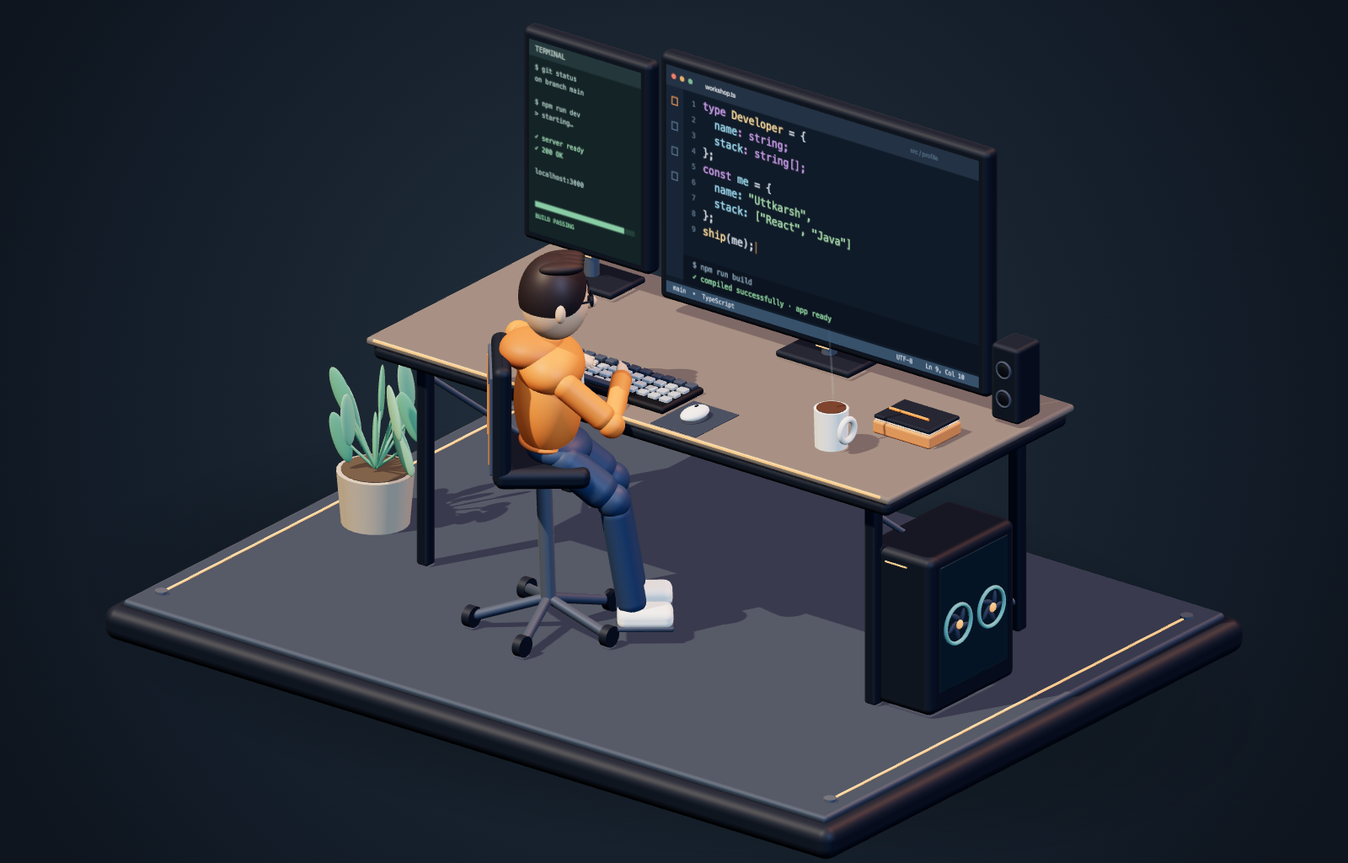
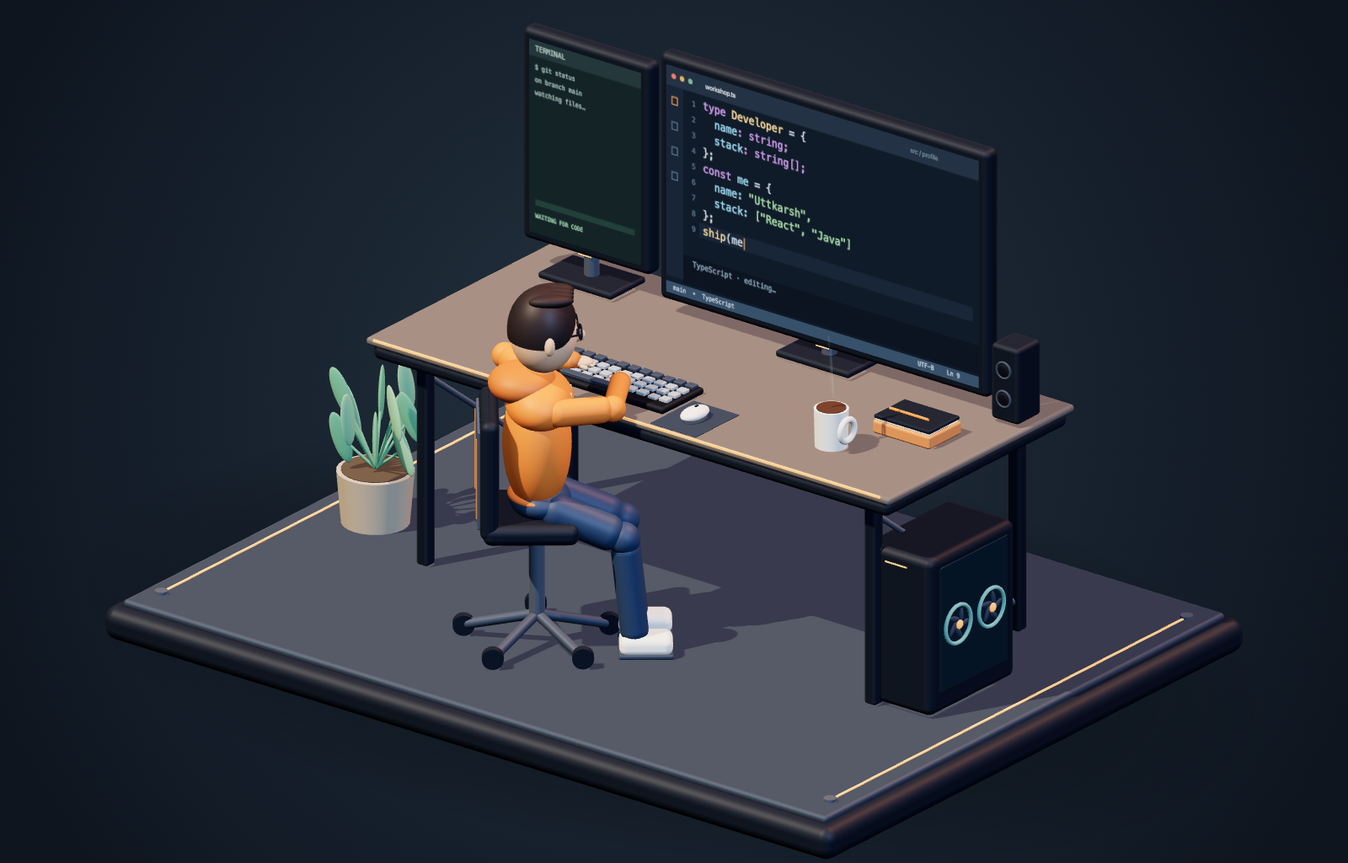
Animate a smooth walk-in coding story with live monitor activity

diff --git a/scripts/coder_workshop.html b/scripts/coder_workshop.html
@@ -8,11 +8,11 @@ body{margin:0;background:#101720;color:#e4e9ef;font:15px system-ui}main{max-widt
 </style>
 <script type="importmap">{"imports":{"three":"/vendor/build/three.module.js"}}</script>
 </head>
-<body><main><p>Authoring preview · the exported animation contains only the workstation</p><div id="scene"></div><nav><button id="preview">Save still preview</button><button id="render">Render animation</button><span id="status">Preparing scene…</span></nav></main>
+<body><main><p>Authoring preview · the exported animation contains only the workstation</p><div id="scene"></div><nav><label>Scene time <input id="time" type="range" min="0" max="15.98" step="0.02" value="7" /></label><button id="play">Pause preview</button><button id="preview">Save still preview</button><button id="render">Render animation</button><span id="status">Preparing scene…</span></nav></main>
 <script type="module">
 import * as THREE from 'three';
 import { RoundedBoxGeometry } from '/vendor/examples/jsm/geometries/RoundedBoxGeometry.js';
-const W=1600,H=1024,N=200,LOOP=8, status=document.querySelector('#status');
+const W=1600,H=1024,N=800,FPS=50,LOOP=16, status=document.querySelector('#status');
 const V=(x=0,y=0,z=0)=>new THREE.Vector3(x,y,z), scene=new THREE.Scene();
 const renderer=new THREE.WebGLRenderer({antialias:true,preserveDrawingBuffer:true,alpha:false});
 renderer.setSize(W,H);renderer.setPixelRatio(1);renderer.outputColorSpace=THREE.SRGBColorSpace;
@@ -67,15 +67,31 @@ const codeLines=[
  [['};','#d1ddeb']],
  [['ship','#f2d9a1'],['(me);','#d1ddeb']]
 ];
+const smooth=(a,b,t)=>{const x=THREE.MathUtils.clamp((t-a)/(b-a),0,1);return x*x*x*(x*(x*6-15)+10);};
+const typedLength=codeLines.reduce((n,line)=>n+line.reduce((m,[text])=>m+text.length,0)+1,0);
+function screenState(t){return {wake:smooth(4.35,4.9,t)*(1-smooth(12.7,13.2,t)),typed:Math.floor(typedLength*smooth(5.0,9.35,t)),build:smooth(9.4,10.45,t),done:t>=10.45};}
 function editor(t){
+ const state=screenState(t);
+ cc.fillStyle='#08111b';cc.fillRect(0,0,1280,800);
+ if(state.wake<.001){cc.font='60px Menlo,monospace';cc.fillStyle='#243440';cc.textAlign='center';cc.fillText('</>',640,425);cc.textAlign='left';codeTexture.needsUpdate=true;return;}
+ cc.save();cc.globalAlpha=state.wake;
  cc.fillStyle='#101b29';cc.fillRect(0,0,1280,800);cc.fillStyle='#233244';cc.fillRect(0,0,1280,70);
  for(let i=0;i<3;i++){cc.fillStyle=['#ee806a','#e4b36d','#80b99a'][i];cc.beginPath();cc.arc(31+i*34,35,9,0,Math.PI*2);cc.fill();}
- cc.font='24px system-ui';cc.fillStyle='#dce5ed';cc.fillText('workshop.ts',160,44);cc.fillStyle='#567089';cc.fillText('src / profile',1000,44);
- cc.fillStyle='#172537';cc.fillRect(0,70,70,670);cc.fillStyle='#7191ab';for(let j=0;j<4;j++){cc.strokeStyle=j===0?'#eb9b5a':'#617c96';cc.lineWidth=3;cc.strokeRect(24,108+j*88,22,26);}
- cc.font='39px Menlo, monospace';
- codeLines.forEach((tokens,i)=>{const y=120+i*55;cc.fillStyle='#5c758e';cc.font='26px Menlo, monospace';cc.fillText(String(i+1).padStart(2,' '),89,y);cc.font='39px Menlo, monospace';let x=150;for(const [text,color] of tokens){cc.fillStyle=color;cc.fillText(text,x,y);x+=cc.measureText(text).width;}if(i===8){cc.fillStyle=`rgba(237,180,112,${.4+.6*(.5+.5*Math.sin(t*Math.PI*2))})`;cc.fillRect(x+5,y-32,3,41);}});
- cc.fillStyle='#0b1420';cc.fillRect(70,650,1210,102);cc.font='27px Menlo, monospace';cc.fillStyle='#8aa6bd';cc.fillText('$ npm run build',108,685);cc.fillStyle='#94d7aa';cc.fillText('✓ compiled successfully · app ready',108,727);
- cc.fillStyle='#37516b';cc.fillRect(0,760,1280,40);cc.font='22px Menlo, monospace';cc.fillStyle='#d1dfed';cc.fillText('main  •  TypeScript',28,786);cc.fillText('UTF-8    Ln 9, Col 10',943,786);codeTexture.needsUpdate=true;
+ cc.font='24px system-ui';cc.fillStyle='#dce5ed';cc.fillText('workshop.ts',160,44);cc.fillStyle='#718ba3';cc.fillText('src / profile',1000,44);
+ cc.fillStyle='#172537';cc.fillRect(0,70,70,670);for(let j=0;j<4;j++){cc.strokeStyle=j===0?'#eb9b5a':'#617c96';cc.lineWidth=3;cc.strokeRect(24,108+j*88,22,26);}
+ let remaining=state.typed,caret={x:150,y:120,line:1};
+ codeLines.forEach((tokens,i)=>{const y=120+i*55;cc.fillStyle='#5c758e';cc.font='26px Menlo,monospace';cc.fillText(String(i+1).padStart(2,' '),89,y);cc.font='39px Menlo,monospace';let x=150;
+  for(const [text,color] of tokens){const visible=text.slice(0,Math.max(0,remaining));cc.fillStyle=color;cc.fillText(visible,x,y);x+=cc.measureText(visible).width;remaining-=text.length;}
+  if(remaining>=0)caret={x,y,line:i+1};else if(remaining+tokens.reduce((n,[text])=>n+text.length,0)>=0)caret={x,y,line:i+1};remaining-=1;
+ });
+ cc.fillStyle='rgba(119,173,219,.08)';cc.fillRect(135,caret.y-38,1120,51);
+ cc.fillStyle=`rgba(245,190,120,${.45+.55*(.5+.5*Math.sin(t*Math.PI*3))})`;cc.fillRect(caret.x+4,caret.y-32,3,41);
+ cc.fillStyle='#0b1420';cc.fillRect(70,650,1210,102);cc.font='27px Menlo,monospace';cc.fillStyle='#8aa6bd';cc.fillText(t<9.4?'TypeScript · editing…':'$ npm run build',108,685);
+ cc.fillStyle=state.done?'#94d7aa':'#dfb77e';cc.fillText(state.done?'✓ compiled successfully · app ready':t>=9.4?'building '+Math.floor(state.build*100)+'%':'',108,727);
+ if(t>=9.4){cc.fillStyle='#76bc96';cc.fillRect(70,750,1210*state.build,6);}
+ cc.fillStyle='#37516b';cc.fillRect(0,760,1280,40);cc.font='22px Menlo,monospace';cc.fillStyle='#d1dfed';cc.fillText('main  •  TypeScript',28,786);cc.fillText('UTF-8    Ln '+caret.line,1030,786);
+ if(state.done){cc.fillStyle='#244d3d';cc.fillRect(900,84,345,49);cc.fillStyle='#b8efc8';cc.font='25px Menlo,monospace';cc.fillText('✓ BUILD SUCCESS',925,117);}
+ cc.restore();codeTexture.needsUpdate=true;
 }
 function monitor(x,y,z,width,height,texture){
  box(V(x,2.18,z),[.78,.06,.48],m.dark,.035);rod(V(x,2.2,z),V(x,y-.2,z),.065,m.steel);
@@ -86,7 +102,15 @@ function monitor(x,y,z,width,height,texture){
 monitor(.80,3.39,-1.08,3.30,2.065,codeTexture);
 const termCanvas=document.createElement('canvas');termCanvas.width=540;termCanvas.height=800;
 const tc=termCanvas.getContext('2d'),termTexture=new THREE.CanvasTexture(termCanvas);termTexture.colorSpace=THREE.SRGBColorSpace;
-function terminal(t){tc.fillStyle='#132326';tc.fillRect(0,0,540,800);tc.fillStyle='#24383c';tc.fillRect(0,0,540,66);tc.font='30px Menlo, monospace';tc.fillStyle='#b7cdc6';tc.fillText('TERMINAL',30,43);const lines=['$ git status','on branch main','','$ npm run dev','> starting…','','✓ server ready','✓ 200 OK','','localhost:3000'];tc.font='28px Menlo, monospace';lines.forEach((line,i)=>{tc.fillStyle=i===6||i===7?'#9edab7':'#a7c7c1';tc.fillText(line,28,119+i*48);});tc.fillStyle='#233f39';tc.fillRect(30,667,480,22);tc.fillStyle='#89cda6';tc.fillRect(30,667,420+24*Math.sin(t*Math.PI/4),22);tc.font='24px Menlo, monospace';tc.fillText('BUILD PASSING',30,736);termTexture.needsUpdate=true;}
+function terminal(t){
+ const state=screenState(t);tc.fillStyle='#091317';tc.fillRect(0,0,540,800);
+ if(state.wake<.001){tc.fillStyle='#253b3d';tc.beginPath();tc.arc(270,400,10,0,Math.PI*2);tc.fill();termTexture.needsUpdate=true;return;}
+ tc.save();tc.globalAlpha=state.wake;tc.fillStyle='#132326';tc.fillRect(0,0,540,800);tc.fillStyle='#24383c';tc.fillRect(0,0,540,66);tc.font='30px Menlo,monospace';tc.fillStyle='#b7cdc6';tc.fillText('TERMINAL',30,43);
+ const lines=[['$ git status',4.9],['on branch main',5.3],['watching files…',5.8],['workshop.ts saved',9.35],['$ npm run build',9.4],['> checking types',9.6],['> bundling app',9.95],['✓ tests passed',10.25],['✓ build complete',10.45]];
+ tc.font='27px Menlo,monospace';lines.forEach(([line,time],i)=>{if(t>=time){tc.globalAlpha=state.wake*smooth(time,time+.12,t);tc.fillStyle=line.startsWith('✓')?'#9edab7':'#a7c7c1';tc.fillText(line,28,119+i*53);}});tc.globalAlpha=state.wake;
+ tc.fillStyle='#233f39';tc.fillRect(30,659,480,25);tc.fillStyle='#89cda6';tc.fillRect(30,659,480*state.build,25);tc.font='24px Menlo,monospace';tc.fillStyle='#a4dfb9';tc.fillText(state.done?'READY TO SHIP':t>=9.4?'BUILDING…':'WAITING FOR CODE',30,736);
+ tc.restore();termTexture.needsUpdate=true;
+}
 monitor(-1.77,3.35,-1.16,1.18,1.75,termTexture);
 // Mechanical keyboard, mouse and notebook, with subdued key movement.
 box(V(-.40,2.16,.38),[1.6,.065,.57],m.black,.035);const keys=[];
@@ -113,33 +137,27 @@ box(V(2.77,2.50,-1.08),[.29,.68,.32],m.dark,.035);for(const y of [2.37,2.63]){co
 const plant=V(-3.05,.065,.13);rod(plant,plant.clone().add(V(0,.47,0)),.29,mat('#b1a18a'),scene,.33);
 rod(plant.clone().add(V(0,.474,0)),plant.clone().add(V(0,.48,0)),.29,mat('#52493b'));
 for(let j=0;j<11;j++){const angle=j*2.399,tip=plant.clone().add(V(.29*Math.cos(angle),.73+.045*j,.29*Math.sin(angle)));rod(plant.clone().add(V(0,.48,0)),tip,.013,m.green);const leaf=ellipsoid(tip,[.073,.24,.026],mat(j%2?'#6baa7e':'#8bbb8d'));leaf.rotation.z=.4*Math.cos(angle);leaf.rotation.y=-angle;}
-// The seated character uses a single coordinate frame and fixed-length limbs.
-const body=V(-.55,1.78,1.00),F=V(.78,0,-.626).normalize(),R=V(-F.z,0,F.x),UP=V(0,1,0);
-const local=(r,y,f)=>body.clone().addScaledVector(R,r).addScaledVector(UP,y).addScaledVector(F,f);
-const yaw=Math.atan2(F.x,F.z);
-function localBox(pos,size,material,r=.04){const o=box(pos,size,material,r);o.rotation.y=yaw;return o;}
-// Upholstered chair, stitched backrest, wheels, and the same seated proportions.
-localBox(local(0,-.20,-.055),[.88,.18,.80],m.dark,.075);
-localBox(local(0,.27,-.39),[.86,1.08,.16],m.dark,.075);
-localBox(local(0,.27,-.477),[.74,.89,.035],mat('#465163'),.045);
-for(const sign of [-1,1])localBox(local(sign*.32,.27,-.500),[.014,.73,.010],m.orange,.005);
-rod(V(body.x,.35,body.z),local(0,-.25,-.04),.068,m.steel);
-for(let j=0;j<5;j++){const angle=j*Math.PI*2/5,end=V(body.x+.64*Math.cos(angle),.16,body.z+.64*Math.sin(angle));capsule(V(body.x,.34,body.z),end,.044,m.edge);const wheel=rod(end.clone().add(V(-.038,0,0)),end.clone().add(V(.038,0,0)),.092,m.dark);}
-for(const sign of [-1,1]){
- const hip=local(sign*.20,-.02,.03),knee=local(sign*.23,-.47,.54),ankle=local(sign*.23,-1.50,.71);
- capsule(hip,knee,.16,m.pants);ellipsoid(knee,[.145,.15,.145],m.pants);capsule(knee,ankle,.125,m.pants);
- localBox(ankle.clone().addScaledVector(F,.095).add(V(0,-.008,0)),[.29,.17,.47],m.shoe,.07);
- localBox(ankle.clone().addScaledVector(F,.095).add(V(0,-.081,0)),[.30,.041,.48],m.edge,.019);
-}
-const hips=ellipsoid(local(0,-.06,.09),[.33,.16,.28],m.pants);hips.rotation.y=yaw;
-const hem=ellipsoid(local(0,.005,0),[.31,.065,.25],m.hood);hem.rotation.y=yaw;
-const torso=ellipsoid(local(0,.36,0),[.39,.52,.29],m.orange);torso.rotation.y=yaw;
-const shoulders=ellipsoid(local(0,.68,.02),[.43,.24,.29],m.orange);shoulders.rotation.y=yaw;
-const hood=ellipsoid(local(0,.82,-.12),[.29,.17,.29],m.hood);hood.rotation.y=yaw;
-rod(local(0,.84,.01),local(0,1.04,.02),.105,m.skin);
-for(const sign of [-1,1])capsule(local(sign*.09,.76,.278),local(sign*.10,.49,.289),.012,m.shoe);
+// An articulated character and independent rolling chair.
+const UP=V(0,1,0),F=V(.78,0,-.626).normalize(),R=V(-F.z,0,F.x),seat=V(-.42,1.43,1.32),yaw=Math.atan2(F.x,F.z);
+const actor=new THREE.Group();scene.add(actor);
+const chair=new THREE.Group();scene.add(chair);chair.rotation.y=yaw;
+function chairBox(position,size,material,r=.04){return box(position,size,material,r,chair);}
+chairBox(V(0,1.21,-.055),[.88,.18,.80],m.dark,.075);
+chairBox(V(0,1.70,-.40),[.86,1.08,.16],m.dark,.075);
+chairBox(V(0,1.70,-.487),[.74,.89,.035],mat('#465163'),.045);
+for(const sign of [-1,1])chairBox(V(sign*.32,1.70,-.51),[.014,.73,.01],m.orange,.005);
+rod(V(0,.35,0),V(0,1.15,0),.068,m.steel,chair);
+const wheels=[];
+for(let j=0;j<5;j++){const angle=j*Math.PI*2/5,end=V(.64*Math.cos(angle),.16,.64*Math.sin(angle));capsule(V(0,.34,0),end,.044,m.edge,chair);wheels.push(rod(end.clone().add(V(-.038,0,0)),end.clone().add(V(.038,0,0)),.092,m.dark,chair));}
+ellipsoid(V(0,-.035,.025),[.33,.16,.26],m.pants,actor);
+ellipsoid(V(0,.01,0),[.31,.065,.25],m.hood,actor);
+const torso=ellipsoid(V(0,.47,0),[.39,.60,.29],m.orange,actor);
+const shoulders=ellipsoid(V(0,.85,.02),[.43,.24,.29],m.orange,actor);
+ellipsoid(V(0,1.01,-.12),[.29,.17,.29],m.hood,actor);
+rod(V(0,1.00,.01),V(0,1.23,.025),.105,m.skin,actor);
+for(const sign of [-1,1])capsule(V(sign*.09,.95,.278),V(sign*.10,.67,.296),.012,m.shoe,actor);
 // Head, sculpted hairline, ears, nose, glasses, and eyelids.
-const head=new THREE.Group();head.position.copy(local(0,1.27,.055));head.rotation.y=yaw+.12;scene.add(head);
+const head=new THREE.Group();head.position.set(0,1.47,.055);actor.add(head);
 ellipsoid(V(),[.295,.355,.285],m.skin,head);
 for(const sign of [-1,1]){ellipsoid(V(sign*.295,-.015,0),[.055,.083,.045],m.skin,head);ellipsoid(V(sign*.308,-.019,.012),[.02,.042,.02],mat('#bf8869'),head);}
 const hairPositions=[],hairIndices=[],hr=22,hs=48;
@@ -152,26 +170,79 @@ const eyes=[];
 for(const sign of [-1,1]){const eye=ellipsoid(V(sign*.108,.025,.266),[.025,.033,.019],m.hair,head);eyes.push(eye);const glass=torus(V(sign*.109,.028,.291),.070,.009,m.dark,head);glass.scale.y=.87;capsule(V(sign*.109-.042,.097,.264),V(sign*.109+.036,.105,.271),.009,m.hair,head);capsule(V(sign*.170,.028,.282),V(sign*.274,.032,.015),.009,m.dark,head);}
 capsule(V(-.035,.037,.30),V(.035,.037,.30),.008,m.dark,head);
 capsule(V(-.045,-.141,.258),V(.044,-.138,.262),.009,mat('#a86e59'),head);
-// Two-bone inverse kinematics keeps elbows joined and prevents stretched arms.
-const arms=[];
-for(const sign of [-1,1]){const upper=mesh(new THREE.CapsuleGeometry(.115,.62-.23,10,24),m.orange,V());const lower=mesh(new THREE.CapsuleGeometry(.088,.62-.176,10,24),m.orange,V());const elbow=ellipsoid(V(),[.112,.112,.112],m.orange);const cuff=ellipsoid(V(),[.088,.084,.088],m.hood);const hand=new THREE.Group();scene.add(hand);ellipsoid(V(0,0,.025),[.079,.047,.095],m.skin,hand);for(let j=0;j<4;j++)capsule(V((j-1.5)*.031,-.005,.08),V((j-1.5)*.031,-.012,.145-Math.abs(j-1.5)*.012),.013,m.skin,hand);capsule(V(-sign*.066,-.009,.008),V(-sign*.101,-.017,.075),.018,m.skin,hand);arms.push({sign,upper,lower,elbow,cuff,hand});}
-function orientSegment(object,a,b){object.position.copy(a).add(b).multiplyScalar(.5);object.quaternion.setFromUnitVectors(UP,b.clone().sub(a).normalize());}
-function solveArm(shoulder,target,sign){const vector=target.clone().sub(shoulder),distance=THREE.MathUtils.clamp(vector.length(),.12,1.235),direction=vector.normalize();const wrist=shoulder.clone().addScaledVector(direction,distance);const mid=shoulder.clone().addScaledVector(direction,distance/2);const pole=R.clone().multiplyScalar(sign).addScaledVector(UP,-.5);pole.addScaledVector(direction,-pole.dot(direction)).normalize();const height=Math.sqrt(.62*.62-distance*distance/4);return {wrist,elbow:mid.addScaledVector(pole,height)};}
-let exporting=false, start=performance.now();
-function animate(t){
- const phase=t*Math.PI*2/LOOP,breathe=.007*Math.sin(phase*2);torso.position.y=body.y+.36+breathe;shoulders.position.y=body.y+.68+breathe;
- const mouseMix=t>3.0&&t<5.0?Math.sin((t-3)*Math.PI/2)**2:0;
- head.position.copy(local(0,1.27+breathe,.055));head.rotation.y=yaw+.12+.06*Math.sin(phase)-.025*mouseMix;head.rotation.z=.025*Math.sin(phase);
- const blink=1-.94*Math.exp(-(((t-2.48)/.065)**2))-.94*Math.exp(-(((t-6.12)/.065)**2));eyes.forEach(e=>e.scale.y=.033*blink);
- for(const a of arms){const shoulder=local(a.sign*.34,.69+breathe,.06),target=V(-.43+a.sign*.24,2.26+.014*Math.sin(t*Math.PI*2*2.5+a.sign),.43+a.sign*.025);if(a.sign===1)target.lerp(V(.67,2.26,.58),mouseMix);const joints=solveArm(shoulder,target,a.sign);orientSegment(a.upper,shoulder,joints.elbow);orientSegment(a.lower,joints.elbow,joints.wrist);a.elbow.position.copy(joints.elbow);a.cuff.position.copy(joints.wrist).lerp(joints.elbow,.10);a.hand.position.copy(joints.wrist);a.hand.quaternion.setFromUnitVectors(V(0,0,1),joints.wrist.clone().sub(joints.elbow).normalize());a.hand.rotateX(.08*Math.sin(t*Math.PI*5+a.sign)*(1-mouseMix));}
- keys.forEach((k,i)=>{k.position.y=2.208-.009*(.5+.5*Math.sin(t*Math.PI*5+i*.7))*(i%9===0?1:0);});
- steam.forEach((s,j)=>{const rise=(t/2+j/3)%1;s.position.set(1.91+.023*Math.sin(phase*2+j),2.5+rise*.20,.32);s.scale.set(1,1+rise*.35,1);s.material.opacity=.12*Math.sin(rise*Math.PI);s.rotation.z=.09*Math.sin(phase+j);});
- fans.forEach((fan,j)=>{fan.rotation.z=phase*16+j;});editor(t);terminal(t);renderer.render(scene,camera);
+
+function limb(length,radius,material){return mesh(new THREE.CapsuleGeometry(radius,length-2*radius,10,24),material,V(),actor);}
+const arms=[],legs=[];
+for(const sign of [-1,1]){
+ const hand=new THREE.Group();actor.add(hand);ellipsoid(V(0,0,.025),[.079,.047,.095],m.skin,hand);
+ for(let j=0;j<4;j++)capsule(V((j-1.5)*.031,-.005,.08),V((j-1.5)*.031,-.012,.145-Math.abs(j-1.5)*.012),.013,m.skin,hand);
+ capsule(V(-sign*.066,-.009,.008),V(-sign*.101,-.017,.075),.018,m.skin,hand);
+ arms.push({sign,upper:limb(.62,.115,m.orange),lower:limb(.62,.088,m.orange),elbow:ellipsoid(V(),[.112,.112,.112],m.orange,actor),hand,cuff:ellipsoid(V(),[.088,.084,.088],m.hood,actor)});
+ const shoe=new THREE.Group();actor.add(shoe);box(V(0,0,.085),[.29,.17,.45],m.shoe,.07,shoe);box(V(0,-.079,.085),[.30,.041,.46],m.edge,.018,shoe);
+ legs.push({sign,upper:limb(.76,.155,m.pants),lower:limb(.94,.12,m.pants),knee:ellipsoid(V(),[.14,.14,.14],m.pants,actor),shoe});
 }
-function tick(){if(!exporting)animate(((performance.now()-start)/1000)%LOOP);requestAnimationFrame(tick);}
-animate(.48);tick();status.textContent='Ready · 1600 × 1024 · 25 fps';
+function orientSegment(object,a,b){object.position.copy(a).add(b).multiplyScalar(.5);object.quaternion.setFromUnitVectors(UP,b.clone().sub(a).normalize());}
+function ik(root,target,l1,l2,pole){
+ const direction=target.clone().sub(root);const d=THREE.MathUtils.clamp(direction.length(),Math.abs(l1-l2)+.001,l1+l2-.002);direction.normalize();
+ const end=root.clone().addScaledVector(direction,d),along=(l1*l1-l2*l2+d*d)/(2*d),height=Math.sqrt(Math.max(0,l1*l1-along*along));
+ const bend=pole.clone().addScaledVector(direction,-pole.dot(direction)).normalize();return {end,joint:root.clone().addScaledVector(direction,along).addScaledVector(bend,height)};
+}
+const angleMix=(a,b,u)=>a+Math.atan2(Math.sin(b-a),Math.cos(b-a))*u;
+const approach=new THREE.CatmullRomCurve3([V(8.5,0,2.30),V(3.2,0,2.30),V(.75,0,2.15),V(seat.x,0,seat.z)],false,'centripetal');
+const pathLength=approach.getLength();
+function travel(p){if(p<.15)return (p/2-.15*Math.sin(Math.PI*p/.15)/(2*Math.PI))/.85;if(p>.85)return 1-travel(1-p);return (p-.075)/.85;}
+function story(t){
+ const entering=t<2.8,leaving=t>=13.2;
+ let root=seat.clone(),turn=yaw,sit=0,walk=0,stride=0,roll=0;
+ if(entering||leaving){
+  const p=entering?THREE.MathUtils.clamp((t-.3)/2.5,0,1):1-THREE.MathUtils.clamp((t-13.2)/2.5,0,1);
+  // Arc-length parameterization keeps the stride speed consistent along the curve.
+  const u=travel(p),point=approach.getPointAt(u),tangent=approach.getTangentAt(u).multiplyScalar(entering?1:-1);
+  root.copy(point);root.y=1.88;turn=Math.atan2(tangent.x,tangent.z);
+  walk=smooth(0,.12,p)*(1-smooth(.88,1,p));root.y-=.10*walk;stride=u*pathLength/2.2*Math.PI*2*(entering?1:-1);
+ }else if(t<3.3){root.y=1.88;const tangent=approach.getTangentAt(1);turn=angleMix(Math.atan2(tangent.x,tangent.z),yaw,smooth(2.8,3.3,t));}
+ else if(t<4.2){sit=smooth(3.3,4.2,t);root.addScaledVector(F,-.6*sit);root.y=THREE.MathUtils.lerp(1.88,seat.y,sit);}
+ else if(t<11.4){sit=1;roll=smooth(4.2,4.7,t);root.addScaledVector(F,-.6*(1-roll));}
+ else if(t<11.9){sit=1;roll=1-smooth(11.4,11.9,t);root.addScaledVector(F,-.6*(1-roll));}
+ else if(t<12.7){sit=1-smooth(11.9,12.7,t);root.addScaledVector(F,-.6*sit);root.y=THREE.MathUtils.lerp(1.88,seat.y,sit);}
+ else{root.y=1.88;const tangent=approach.getTangentAt(1).negate();turn=angleMix(yaw,Math.atan2(tangent.x,tangent.z),smooth(12.7,13.2,t));}
+ return {root,turn,sit,walk,stride,roll};
+}
+let exporting=false,playing=true,start=performance.now(),selectedTime=7;
+function animate(t){
+ const pose=story(t),phase=t*Math.PI*2/LOOP,coding=smooth(4.65,5.15,t)*(1-smooth(9.35,9.6,t)),celebrate=smooth(10.45,10.75,t)*(1-smooth(11.05,11.35,t));
+ actor.visible=t>.3&&t<15.7;actor.position.copy(pose.root);actor.position.y+=pose.walk*.005*(1-Math.cos(pose.stride*2));actor.rotation.set(0,pose.turn,pose.walk*.022*Math.sin(pose.stride));
+ actor.updateMatrixWorld(true);
+ const chairOffset=t<3.3?-.6:t<4.2?-.6:t<11.4?-.6*(1-pose.roll):t<11.9?-.6*(1-pose.roll):-.6;
+ chair.position.copy(seat).addScaledVector(F,chairOffset);chair.position.y=0;
+ const breath=.006*Math.sin(t*Math.PI*1.5);torso.scale.y=.60+breath;head.rotation.set(.025*Math.sin(t*Math.PI*1.4)*coding+.10*celebrate,.10+.06*Math.sin(t*Math.PI*.5)*pose.sit,.018*Math.sin(pose.stride)*pose.walk);
+ const blink=1-.94*Math.exp(-(((t-6.25)/.075)**2))-.94*Math.exp(-(((t-10.6)/.075)**2));eyes.forEach(e=>e.scale.y=.033*blink);
+ for(const leg of legs){
+  const step=Math.sin(pose.stride+(leg.sign<0?Math.PI:0)),lift=Math.max(0,Math.cos(pose.stride+(leg.sign<0?Math.PI:0)));
+  const standing=V(leg.sign*.21,.17-actor.position.y+pose.walk*.17*lift,pose.walk*.55*step);
+  const seated=V(leg.sign*.23,.17-actor.position.y,.82);
+  const foot=standing.lerp(seated,pose.sit),hip=V(leg.sign*.20,-.02,.025),joints=ik(hip,foot,.76,.94,V(0,0,1));
+  orientSegment(leg.upper,hip,joints.joint);orientSegment(leg.lower,joints.joint,joints.end);leg.knee.position.copy(joints.joint);leg.shoe.position.copy(joints.end);leg.shoe.rotation.x=-pose.walk*.20*step*lift;
+ }
+ const ready=smooth(4.3,4.95,t)*(1-smooth(11.35,11.8,t));
+ for(const arm of arms){
+  const shoulder=V(arm.sign*.34,.86,.06),swing=Math.sin(pose.stride+(arm.sign>0?Math.PI:0));
+  let target=V(arm.sign*.46,-.22,pose.walk*.32*swing+.11);
+  const typingWorld=V(-.43-arm.sign*.24,2.26+.026*Math.sin(t*Math.PI*7+arm.sign)*coding,.44-arm.sign*.025+.018*Math.cos(t*Math.PI*5+arm.sign)*coding);
+  const typing=actor.worldToLocal(typingWorld);target.lerp(typing,ready);
+  if(arm.sign===-1)target.lerp(V(-.54,1.50,.38),celebrate);
+  const joints=ik(shoulder,target,.62,.62,V(arm.sign,THREE.MathUtils.lerp(-.5,-.03,ready),.10));orientSegment(arm.upper,shoulder,joints.joint);orientSegment(arm.lower,joints.joint,joints.end);arm.elbow.position.copy(joints.joint);arm.cuff.position.copy(joints.end).lerp(joints.joint,.1);arm.hand.position.copy(joints.end);arm.hand.quaternion.setFromUnitVectors(V(0,0,1),joints.end.clone().sub(joints.joint).normalize());
+ }
+ keys.forEach((k,i)=>{k.position.y=2.208-.015*coding*(.5+.5*Math.sin(t*Math.PI*7+i*.71))*(i%5===0?1:0);});
+ steam.forEach((s,j)=>{const rise=(t/2+j/3)%1;s.position.set(1.91+.023*Math.sin(phase*4+j),2.5+rise*.20,.32);s.scale.set(1,1+rise*.35,1);s.material.opacity=.12*Math.sin(rise*Math.PI);s.rotation.z=.10*Math.sin(phase*2+j);});
+ fans.forEach((fan,j)=>{fan.rotation.z=phase*12+j;});editor(t);terminal(t);renderer.render(scene,camera);
+}
+function tick(){if(!exporting&&playing){selectedTime=((performance.now()-start)/1000)%LOOP;animate(selectedTime);}requestAnimationFrame(tick);}
+animate(selectedTime);tick();status.textContent='Ready · 1600 × 1024 · 50 fps · 16-second story';
 const blob=()=>new Promise(resolve=>renderer.domElement.toBlob(resolve,'image/png'));
 async function send(url,body){const response=await fetch(url,{method:'POST',body});if(!response.ok)throw new Error(await response.text());}
-document.querySelector('#preview').onclick=async()=>{exporting=true;animate(.48);await send('/preview',await blob());status.textContent='Still preview saved';exporting=false;};
-document.querySelector('#render').onclick=async()=>{exporting=true;document.querySelectorAll('button').forEach(b=>b.disabled=true);try{for(let i=0;i<N;i++){animate(i/25);await send(`/frame/${String(i).padStart(3,'0')}`,await blob());status.textContent=`Rendering ${i+1} / ${N}`;}status.textContent='Assembling animation…';await send('/finish',new Uint8Array());status.textContent='Saved · 1600 × 1024 · 200 frames · 25 fps';}catch(error){status.textContent=error.message;}finally{exporting=false;start=performance.now();document.querySelectorAll('button').forEach(b=>b.disabled=false);}};
+document.querySelector('#time').oninput=e=>{playing=false;selectedTime=Number(e.target.value);animate(selectedTime);document.querySelector('#play').textContent='Play preview';status.textContent=selectedTime.toFixed(2)+' seconds';};
+document.querySelector('#play').onclick=()=>{playing=!playing;start=performance.now()-selectedTime*1000;document.querySelector('#play').textContent=playing?'Pause preview':'Play preview';};
+document.querySelector('#preview').onclick=async()=>{exporting=true;animate(selectedTime);await send('/preview',await blob());status.textContent='Still preview saved';exporting=false;};
+document.querySelector('#render').onclick=async()=>{exporting=true;document.querySelectorAll('button,input').forEach(b=>b.disabled=true);try{for(let i=0;i<N;i++){animate(i/FPS);await send(`/frame/${String(i).padStart(3,'0')}`,await blob());status.textContent=`Rendering ${i+1} / ${N}`;}status.textContent='Assembling animation…';await send('/finish',new Uint8Array());status.textContent='Saved · 1600 × 1024 · 800 frames · 50 fps';}catch(error){status.textContent=error.message;}finally{exporting=false;start=performance.now();document.querySelectorAll('button,input').forEach(b=>b.disabled=false);}};
 </script></body></html>

diff --git a/scripts/coder_workshop.py b/scripts/coder_workshop.py
@@ -1,7 +1,7 @@
 #!/usr/bin/env python3
 """Serve the Three.js workshop renderer and assemble GitHub-safe animated media.
 
-Requires Pillow and Three.js 0.180.0. Install Three.js in a temporary directory
+Requires Pillow 12.x and Three.js 0.180.0. Install Three.js in a temporary directory
 with npm, then pass its node_modules/three directory as --three. Open the printed
 local URL and use Render animation. Controls belong to this authoring page only;
 the exported README media contains no controls, scripts, or external requests.
@@ -14,51 +14,57 @@ import tempfile
 from http.server import BaseHTTPRequestHandler, ThreadingHTTPServer
 from pathlib import Path
 
-from PIL import Image
+from PIL import Image, _webp
 
 ROOT = Path(__file__).resolve().parents[1]
-WIDTH, HEIGHT, FRAMES, DURATION_MS = 1600, 1024, 200, 40
+WIDTH, HEIGHT, FRAMES, DURATION_MS = 1600, 1024, 800, 20
+
+
+def encode_webp(paths):
+    # Full-colour WebP preserves the rounded lighting; GIF is a universal fallback.
+    # Stream frames into Pillow's WebP encoder rather than keeping 800 RGB images
+    # in memory. This follows the encoder interface used by WebPImagePlugin.
+    encoder = _webp.WebPAnimEncoder((WIDTH, HEIGHT), 0xFF101720, 0, True, 3, 5, False, False)
+    for index, path in enumerate(paths):
+        with Image.open(path) as image:
+            frame = image.convert('RGBX')
+            encoder.add(frame.getim(), index * DURATION_MS, False, 84, 100, 4)
+        if index % 100 == 0:
+            print(f'Encoded {index}/{FRAMES} full-colour frames', flush=True)
+    encoder.add(None, FRAMES * DURATION_MS, False, 84, 100, 0)
+    webp = ROOT / 'assets/coder-workshop.webp'
+    webp.write_bytes(encoder.assemble('', '', ''))
+    with Image.open(webp) as image:
+        assert image.size == (WIDTH, HEIGHT) and image.n_frames == FRAMES
+    return webp
 
 
 def assemble(directory):
     paths = [directory / f'{i:03}.png' for i in range(FRAMES)]
     if not all(path.is_file() for path in paths):
         raise ValueError('Missing rendered frames')
-    # Full-colour WebP preserves the rounded lighting; GIF is a universal fallback.
-    rendered = []
-    for path in paths:
-        with Image.open(path) as image:
-            rendered.append(image.convert('RGB'))
-    webp = ROOT / 'assets/coder-workshop.webp'
-    rendered[0].save(webp, save_all=True, append_images=rendered[1:],
-                     duration=DURATION_MS, loop=0, quality=94, method=3,
-                     minimize_size=True)
-    for image in rendered:
-        image.close()
-    del rendered
-    with Image.open(webp) as image:
-        assert image.size == (WIDTH, HEIGHT) and image.n_frames == FRAMES
+    webp = encode_webp(paths)
     # One palette for the whole loop keeps stationary surfaces from flickering.
     atlas = Image.new('RGB', (800, 512 * 5))
-    for row, index in enumerate((0, 40, 80, 120, 160)):
+    for row, index in enumerate((75, 175, 300, 450, 550)):
         with Image.open(paths[index]) as image:
             atlas.paste(image.convert('RGB').resize((800, 512)), (0, row * 512))
     palette = atlas.quantize(colors=256, method=Image.Quantize.MEDIANCUT)
     indexed = []
-    for path in paths:
+    for path in paths[::2]:
         with Image.open(path) as image:
             indexed.append(image.convert('RGB').quantize(palette=palette, dither=Image.Dither.NONE))
     output = ROOT / 'assets/coder-workshop.gif'
     indexed[0].save(output, save_all=True, append_images=indexed[1:],
-                    duration=DURATION_MS, loop=0, optimize=True, disposal=1)
-    with Image.open(paths[12]) as image:
+                    duration=DURATION_MS * 2, loop=0, optimize=True, disposal=1)
+    with Image.open(paths[440]) as image:
         image.convert('RGB').save(ROOT / 'assets/coder-workshop.png', optimize=True)
     with Image.open(output) as image:
         assert image.size == (WIDTH, HEIGHT)
-        assert image.n_frames == FRAMES
+        assert image.n_frames == FRAMES // 2
         assert image.info['loop'] == 0
-    print(f'Exported {WIDTH}x{HEIGHT}, {FRAMES} frames, 25 fps, '
-          f'8-second loop, WebP {webp.stat().st_size:,} bytes, '
+    print(f'Exported {WIDTH}x{HEIGHT}, {FRAMES} frames, 50 fps, '
+          f'16-second story, WebP {webp.stat().st_size:,} bytes, '
           f'GIF fallback {output.stat().st_size:,} bytes', flush=True)
 
 

diff --git a/README.md b/README.md
@@ -102,9 +102,9 @@ Passionate about building interactive web experiences, bringing code and creativ
 <!-- CODER-WORKSHOP:START -->
 <div align="center">
   <picture>
-    <source media="(prefers-reduced-motion: reduce)" srcset="assets/coder-workshop.png" />
-    <source type="image/webp" srcset="assets/coder-workshop.webp" />
-    <img src="assets/coder-workshop.gif?v=smooth-1600" alt="A smoothly animated 3D coder typing and using the mouse, with readable TypeScript code and build output on two monitors — an 8-second loop with no buttons or controls" width="100%" />
+    <source media="(prefers-reduced-motion: reduce)" srcset="assets/coder-workshop.png?v=story-50" />
+    <source type="image/webp" srcset="assets/coder-workshop.webp?v=story-50" />
+    <img src="assets/coder-workshop.gif?v=story-50" alt="A 3D coder walks in from the right, sits down, wakes the monitors, types visible code, celebrates a successful build, and walks away — a smooth 16-second animation with no buttons or controls" width="100%" />
   </picture>
 </div>
 <!-- CODER-WORKSHOP:END -->
